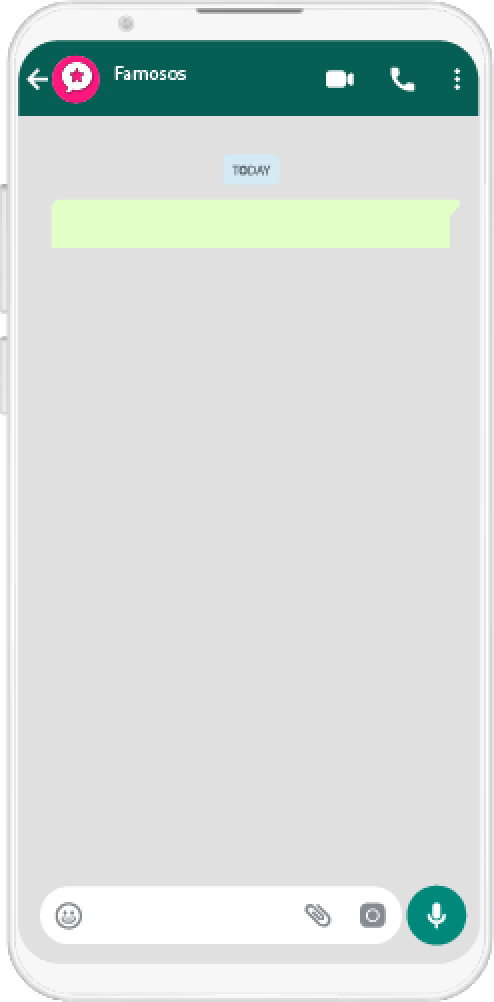
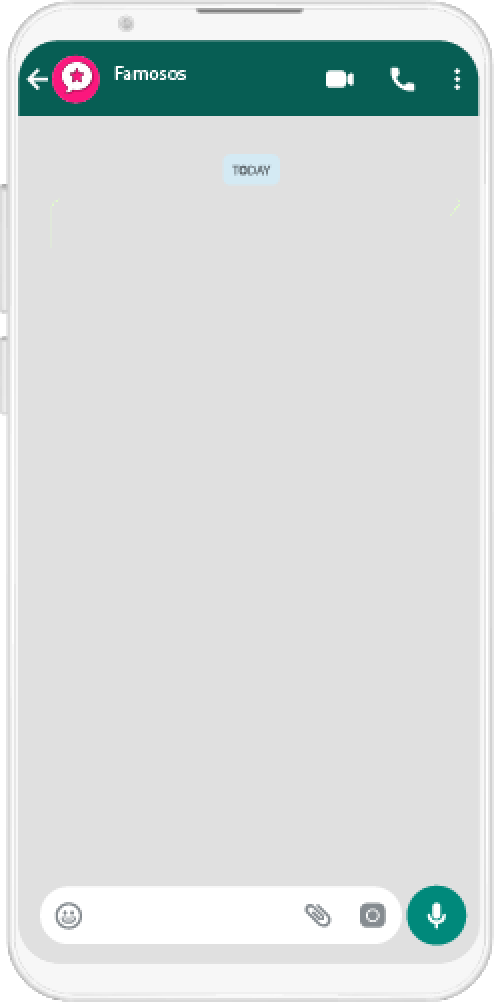
feat(<WhatsappSharePreview />): :sparkles: Añadir imagen de poster de video

Changed region(s): [[0.0911, 0.1856, 0.9413, 0.2475]]

diff --git a/desktop-app/components/share-in-whatsapp/whatsapp-share-preview/index.tsx b/desktop-app/components/share-in-whatsapp/whatsapp-share-preview/index.tsx
@@ -15,12 +15,19 @@ function WhatsappSharePreview({
   return (
     <div className={styles.WhatsappSharePreview}>
       <div className={styles.MessageToast}>
-        ¡Hola {deliveryTo}! <br />
-        Mira el regalo que {deliveryFrom} te ha hecho a través de Famosos.com{" "}
-        <br /> <br />
-        <span className={styles.Hyperlink}>
-          https://www.famosos.com{getHiringPreviewPath(contractReference)}
-        </span>
+        <img
+          className={styles.MessageImg}
+          src="https://d3dxo4xx2lwk55.cloudfront.net/videos/609/7310/famosos-videos-personalizados-enriquearce-202011032150-1933443-7310-crf-video-poster480.jpg"
+          alt="Poster de video"
+        />
+        <div className={styles.MessageText}>
+          ¡Hola {deliveryTo}! <br />
+          Mira el regalo que {deliveryFrom} te ha hecho a través de Famosos.com{" "}
+          <br /> <br />
+          <span className={styles.Hyperlink}>
+            https://www.famosos.com{getHiringPreviewPath(contractReference)}
+          </span>
+        </div>
       </div>
     </div>
   );

diff --git a/desktop-app/components/share-in-whatsapp/whatsapp-share-preview/styles.module.scss b/desktop-app/components/share-in-whatsapp/whatsapp-share-preview/styles.module.scss
@@ -10,13 +10,24 @@
 }
 
 .MessageToast {
-  word-break: break-word;
   width: 200px;
-  padding: 1.142857142857143em 1em;
+  padding: 3px;
+  background-color: #e1ffc7;
+  border-radius: 7px;
+}
+
+.MessageImg {
+  width: 100%;
+  height: 100px;
+  object-fit: cover;
+  border-radius: 7px;
+}
+
+.MessageText {
+  padding: 3px;
   font-size: 12.5px;
   font-weight: bold;
-  background-color: #e1ffc7;
-  border-radius: 7px 0 7px 7px;
+  word-break: break-word;
 }
 
 .Hyperlink {
